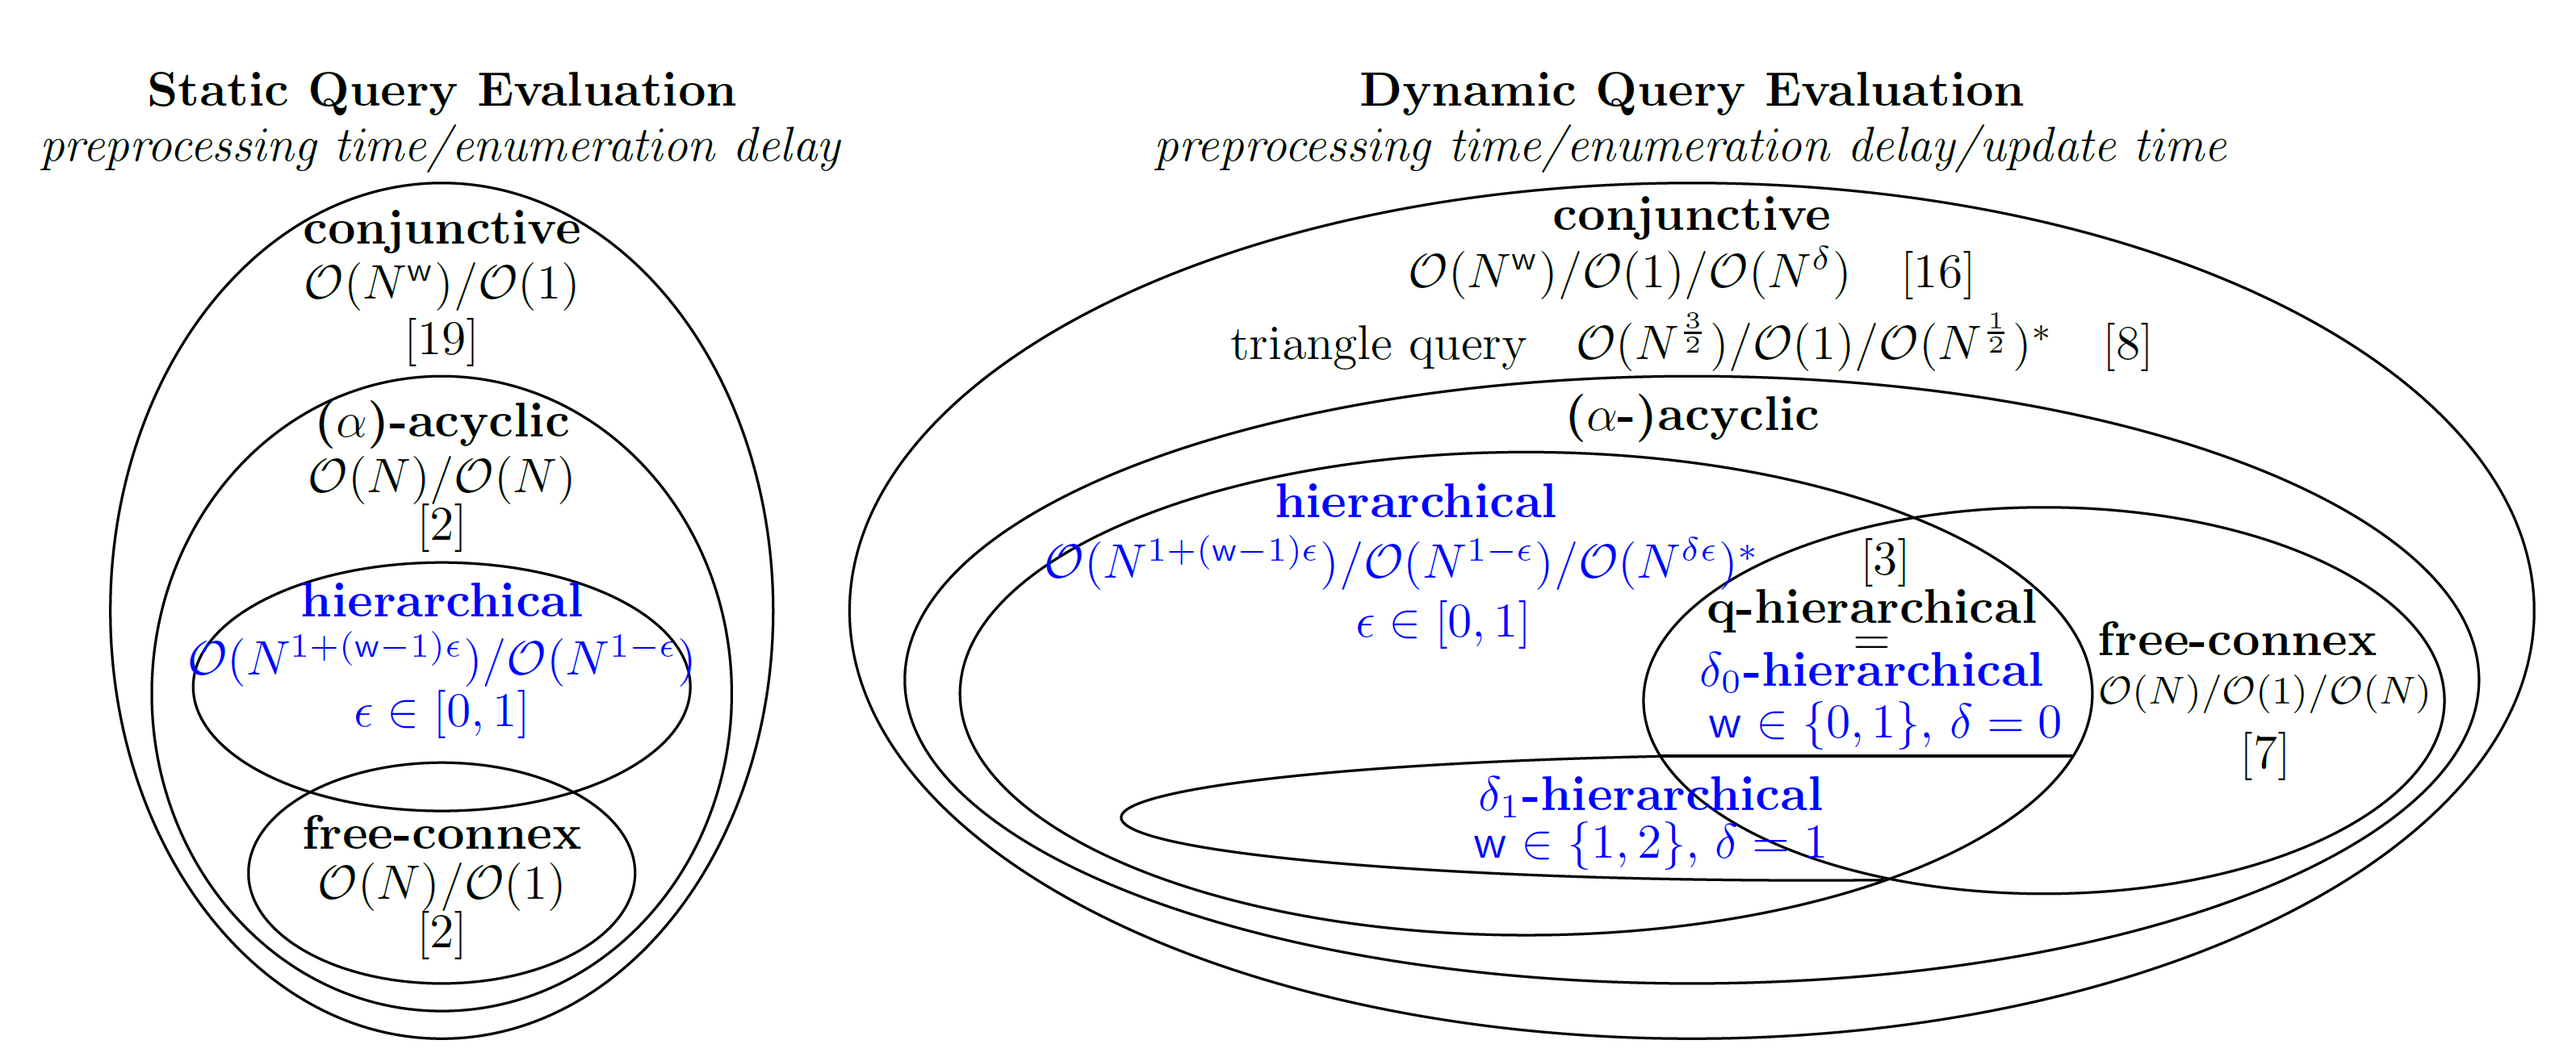
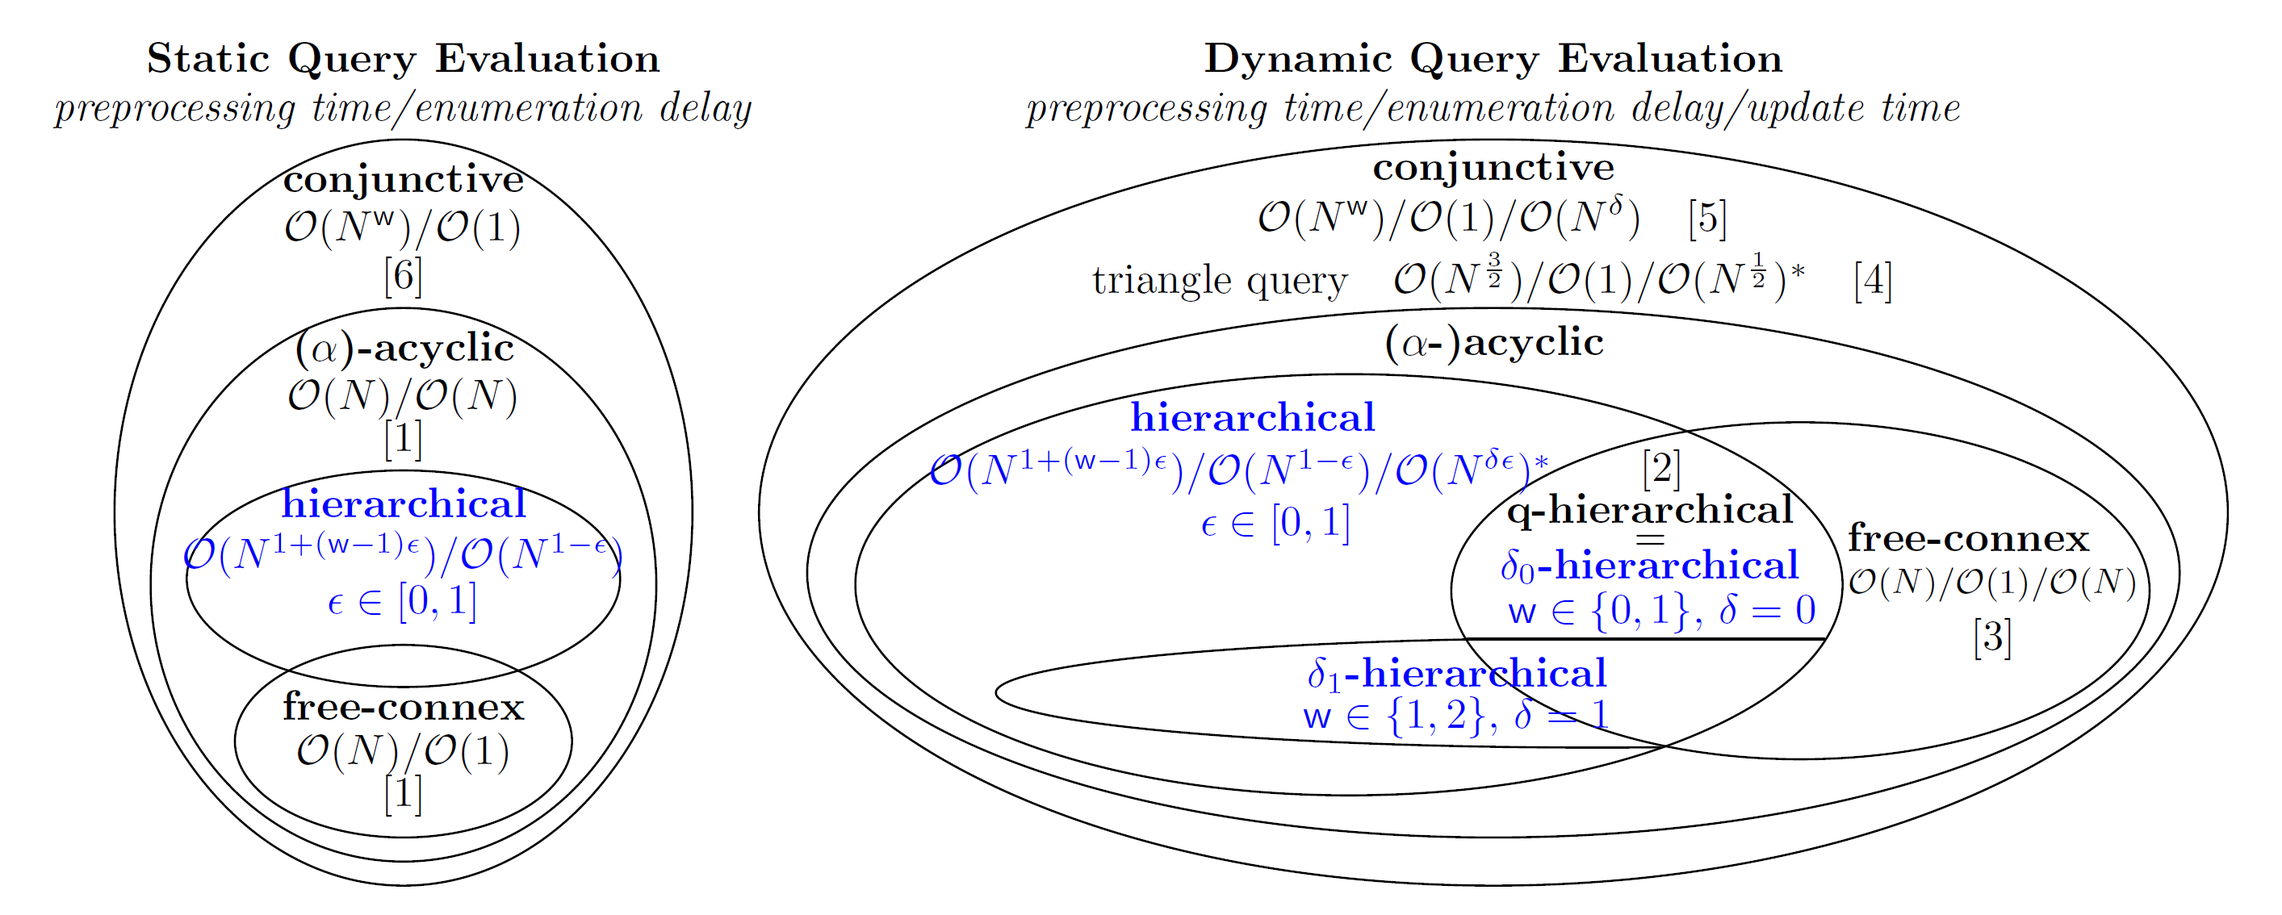
added reference

diff --git a/hierarchical_venn.html b/hierarchical_venn.html
@@ -247,25 +247,56 @@
         <div class="col-lg-10 ">
           <div class="g-font-size-18 g-color-black-opacity-1_0 g-line-height-1_6 g-mb-30">
 
-            <p>This page explains the recovery of prior results. </p>
-
-            <img alt="Figure of ivme" src="./ivm/figures/hierarchical_venn.png" style="margin-bottom: 20px; width: 100%;" />
             <p>
-              The figure above depicts the landscapes
-              of the static and dynamic query evaluation, and the relationship of our results
+              This page depicts the landscapes
+              of the static and dynamic query evaluation, and the relationship of our results (<a
+                href="https://arxiv.org/abs/1907.01988">PODS'20</a>)
               with prior results.
             </p>
 
+            <img alt="Figure of ivme" src="./ivm/figures/hierarchical_venn.png"
+              style="margin-bottom: 20px; width: 100%;" />
             <p>
-              As shown in the left figure, our static result recovers the prior results for conjunctive queries by setting $\epsilon = 1$ and $\alpha$-acyclic queries [2] by setting $\epsilon = 0$; For free-connex queries, $\mathsf{w} = 1$
+              As shown in the left figure, our static result recovers the prior results for conjunctive queries [6] by
+              setting $\epsilon = 1$ and $\alpha$-acyclic queries [1] by setting $\epsilon = 0$; For free-connex
+              queries, $\mathsf{w} = 1$
               and the preprocessing time remains O(N) regardless of $\epsilon$; we then recover the
-              constant delay by choosing $\epsilon$ = 1. 
+              constant delay [1] by choosing $\epsilon$ = 1.
             </p>
             <p>
               The right figure shows that
-              by setting $\epsilon = 1$, our dynamic result recovers prior work on conjunctive,
-              q-hierarchical and free-connex queries, where $\mathsf{w} = 1$ and $\delta \in \{0,1\}$ for
+              by setting $\epsilon = 1$, our dynamic result recovers prior work on conjunctive [5],
+              q-hierarchical [2] and free-connex [3] queries, where $\mathsf{w} = 1$ and $\delta \in \{0,1\}$ for
               free-connex queries and $\mathsf{w} = 1$ and $\delta = 0$ for q-hierarchical queries.
+            </p>
+
+            
+            <br><br>
+            <h3>Reference</h3>
+            <p>
+              [1] Guillaume Bagan, Arnaud Durand, and Etienne Grandjean.
+              <em>On Acyclic Conjuntive Queries and Constant Delay Enumeration.</em> In CSL, pages 208-222, 2007.
+            </p>
+            <p>
+              [2] Christoph Berkholz, Jens Keppeler, and Nicole Schweikardt. <em>Answering Conjunctive Queries Under Updates. </em> In PODS, pages 303-318, 2017.
+            </p>
+            <p>
+              [3] Muhammad Idris, Martin Ugarte, and Stijn Vansummeren. 
+              <em>The Dynamic Yannakakis Algorithm: Compact and Effcient Query Processing Under Updates.</em>
+               In SIGMOD, pages 1259-1274, 2017.
+            </p>
+            <p>
+              [4] Ahmet Kara, Hung Q. Ngo, Milos Nikolic, Dan Olteanu, and Haozhe Zhang. <em>Counting triangles under updates in worst-case optimal time.</em> In ICDT, pages 4:1-4:18, 2019.
+            </p>
+            <p>
+              [5] Milos Nikolic and Dan Olteanu. 
+              <em>Incremental View Maintenance with Triple Lock Factorization Benefits.</em>
+               In SIGMOD, pages 365-380, 2018.
+            </p>
+            <p>
+              [6] Dan Olteanu and Jakub Zavodny. 
+              <em>Size Bounds for Factorised Representations of Query Results.</em>
+               ACM TODS, 40(1):2:1-2:44, 2015.
             </p>
 
 
